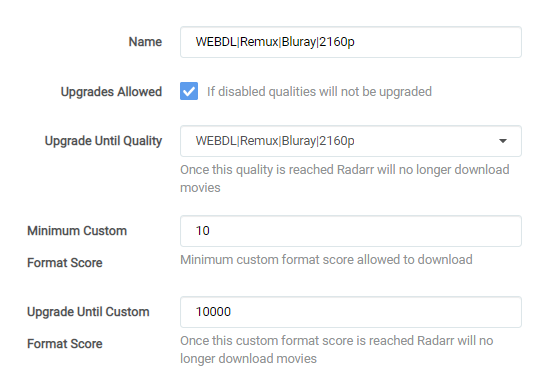
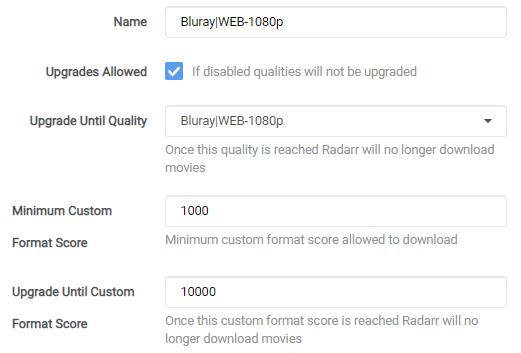
Cleanup

diff --git a/includes/sqp/1-1-cf-scoring.md b/includes/sqp/1-1-cf-scoring.md
@@ -1,23 +1,22 @@
 #### Custom Formats and scores
 
---8<-- "includes/cf/audio.md"
-
---8<-- "includes/cf/hdr-metadata.md"
-
---8<-- "includes/cf/movie-versions.md"
-
 ??? summary "HQ Source Groups - [CLICK TO EXPAND]"
     | Custom Format        | Score |
     | -------------------- | ----- |
     | HQ-WEBDL             | 1750  |
-    | HQ-Remux             | 2000  |
+    | HQ-Remux             |    0  |
     | HQ                   |    0  |
 
---8<-- "includes/cf/hq4k.md"
+??? summary "BHDStudio - [CLICK TO EXPAND]"
+    | Custom Format        | Score |
+    | -------------------- | ----- |
+    | BHDStudio            | 2000  |
 
 ??? summary "Misc - [CLICK TO EXPAND]"
     | Custom Format        | Score |
     | -------------------- | ----- |
+    | 720p                 |     5 |
+    | 1080p                |    25 |
     | Repack/Proper        |     1 |
 
 ??? summary "Unwanted - [CLICK TO EXPAND]"
@@ -41,15 +40,19 @@
 
 `Settings` => `Quality`
 
-| Quality        | Min   | Preferred | Max |
-| -------------- | ----- | --------- | --- |
-| WEBDL-2160p    |  50.8 |       399 | 400 |
-| WEBRip-2160p   |  50.8 |       399 | 400 |
-| Bluray-2160p   | 102   |       399 | 400 |
-| Remux-2160p    | 187.4 |       399 | 400 |
+Change the 1080p Quality Size to the range BHDStudio uses ( I searched BHD to check what was their smallest and biggest release, so this can change later if needed)
+
+If you notice issues with the sizes please report it.
+
+| Quality        | Min   | Preferred | Max  |
+| -------------- | ----- | --------- | ---- |
+| WEBDL-1080p    |  25.2 |      84.7 | 85.7 |
+| WEBRip-1080p   |  25.2 |      84.7 | 85.7 |
+| Bluray-720p    |  33.8 |       101 | 102  |
+| Bluray-1080p   |  33.8 |       101 | 102  |
 
 ??? check "example - [CLICK TO EXPAND]"
-    ![!Quality Size](images/uhd-quality-size.png)
+    ![!Quality Size](images/quality-size.png)
 
     !!! attention
         These screenshots are just examples to show you how it should look and where you need to place the data that you need to add, they aren't always a 100% reflection of the actual data and not always 100% up to date with the actual data you need to add.

diff --git a/docs/SQP/1-1.md b/docs/SQP/1-1.md
@@ -1,0 +1,29 @@
+# Streaming Optimized
+
+!!! note
+    Keep in mind this SQP is a WIP, Changes are done when needed.
+
+    It uses Custom Formats and specific needed settings that probably will never make it to the guide, being the guide is used by the mass and what's used here is specific made.
+
+    This also means some Custom Formats needs manual updating or you can use one of the 3rd party automation tools.
+
+--8<-- "includes/sqp/1-1-why.md"
+
+--8<-- "includes/sqp/1-1-workflow.md"
+
+--8<-- "includes/sqp/1-1-instructions.md"
+
+--8<-- "includes/sqp/1-1-newqp.md"
+
+--8<-- "includes/sqp/1-1-merge.md"
+
+--8<-- "includes/sqp/1-1-sqp.md"
+
+--8<-- "includes/sqp/1-1-cf-scoring.md"
+
+--8<-- "includes/support.md"
+
+------
+
+[^1]:
+    If you don't mind to get also other Bluray Encodes (less or not streaming optimized) then you could lower this score to 10.

diff --git a/includes/sqp/1-1-sqp.md b/includes/sqp/1-1-sqp.md
@@ -1,12 +1,12 @@
 #### Quality Profile Settings
 
 - **Enable:** `Upgrades Allowed`
-- **Upgrade Until Quality:** `WEBDL|Remux|Bluray|2160p`
-- **Minimum Custom Format Score:** `10`
+- **Upgrade Until Quality:** `Bluray|WEB-1080p`
+- **Minimum Custom Format Score:** `1000`[^1]
 - **Upgrade Until Custom Format Score:** `10000`
 
 ??? check "example - [CLICK TO EXPAND]"
-    ![!Quality Profile Settings](images/uhd-quality-profile-settings.png)
+    ![!Quality Profile Settings](images/quality-profile-settings.png)
 
     !!! attention
         These screenshots are just examples to show you how it should look and where you need to place the data that you need to add, they aren't always a 100% reflection of the actual data and not always 100% up to date with the actual data you need to add.

diff --git a/includes/sqp/1-1-workflow.md b/includes/sqp/1-1-workflow.md
@@ -1,0 +1,14 @@
+## Workflow Rules
+
+??? summary "Workflow Rules - [CLICK TO EXPAND]"
+
+    It will prefer 1080p BHDStudio releases, if no BHDStudio can be found it will prefer HQ WEB-DL
+
+    !!! info "BHDStudio"
+        BHDStudio does HQ 1080p Encodes with the following features
+
+        - Streaming optimized (Optimized for PLEX, emby, Jellyfin, and other streaming platforms)
+        - AC3 Audio (Downmixed Lossless audio track to Dolby Digital 5.1 for optimal compatibility)
+        - Small sizes
+        - Good quality
+        - No Dolby Vision

diff --git a/includes/sqp/1-1-why.md b/includes/sqp/1-1-why.md
@@ -1,0 +1,9 @@
+## Why choose this quality profile
+
+??? FAQ "Why choose this quality profile? - [CLICK TO EXPAND]"
+
+    - You want maximum compatibility between all devices and still a HQ releases.
+    - You run 2 instances of Radarr and want both version or just for the 1080p ones.
+    - You want to have minimum till none transcoding for low powered devices or remote streaming.
+    - If available for you Streaming optimized. (Optimized for PLEX, emby, Jellyfin, and other streaming platforms)
+    - Small sizes.

diff --git a/docs/SQP/index.md b/docs/SQP/index.md
@@ -35,3 +35,4 @@ The Special Quality Profiles are Custom made and tested Quality Profile for spec
     - Look for the SQP you want to use, if you're unsure which one will fit your needs ask in the dedicated channel.
     - If you got any questions or need extra info about a SQP, please use the dedicated channel of that SQP to ask, so we know which SQP you're using.
     - Follow the setup instructions and don't skip steps.
+

diff --git a/includes/sqp/1-1-merge.md b/includes/sqp/1-1-merge.md
@@ -2,10 +2,10 @@
 
 Merge the following Qualities together:
 
-- Remux-2160p
-- Bluray-2160p
-- WEBDL/WEBRIP-2160p
+- Bluray-720p
+- Bluray-1080p
+- WEBDL/WEBRIP-1080p
 
 To merge them you need to click on the edit groups.
 
-![!Merge Qualities](images/uhd-merge.gif)
+![!Merge Qualities](images/merge.gif)

diff --git a/includes/sqp/1-1-instructions.md b/includes/sqp/1-1-instructions.md
@@ -1,0 +1,8 @@
+## Instructions
+
+!!! warning ""
+
+    1. Follow every steps below.
+    1. Don't skip any steps.
+    1. Changing the tested recommended scores could result in undesired results.
+    1. Adding CF not in this guide could result in undesired results.

diff --git a/includes/sqp/1-2-newqp.md b/includes/sqp/1-2-newqp.md
@@ -4,4 +4,4 @@
 
 Create a new profile and name it what ever you want I used `WEBDL|Remux|Bluray|2160p`
 
-![!Add Quality Profile](images/add-quality-profile.png)
+![!Add Quality Profile](images/uhd-add-quality-profile.png)

diff --git a/includes/sqp/1-1-newqp.md b/includes/sqp/1-1-newqp.md
@@ -1,0 +1,7 @@
+### Create a new Quality Profile
+
+`Settings` => `Profiles`
+
+Create a new profile and name it what ever you want I used `Bluray|WEB-1080p`
+
+![!Add Quality Profile](images/add-quality-profile.png)
